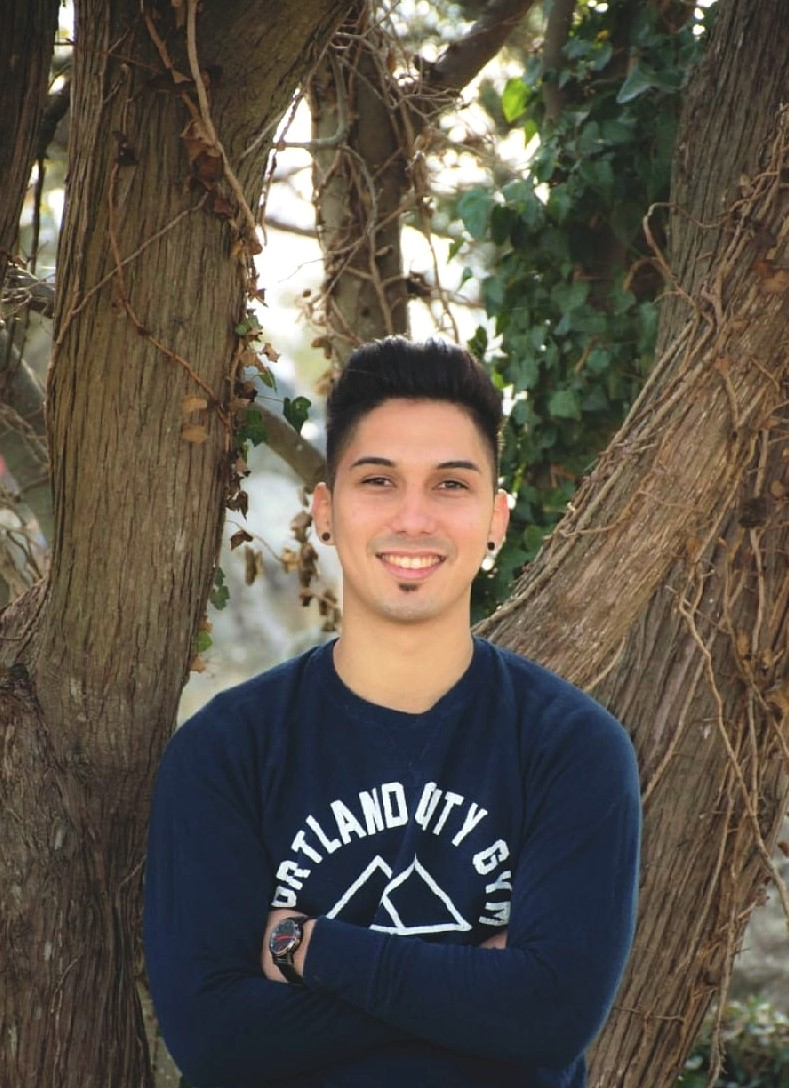
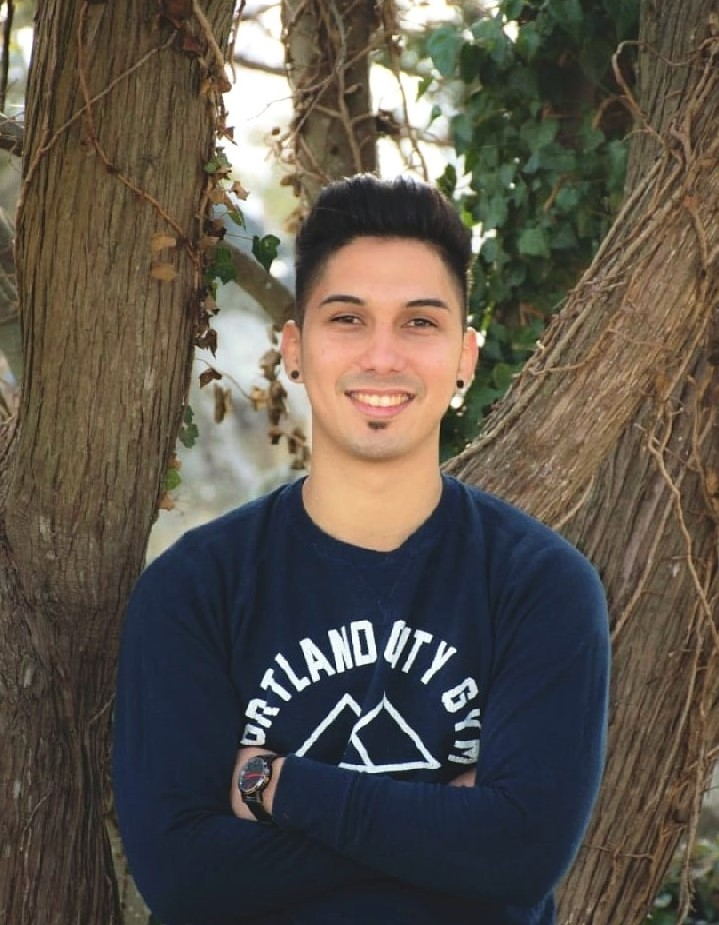
retocando detalles

diff --git a/index.html b/index.html
@@ -11,38 +11,62 @@
 </head>
 <body>
     <section class="container d-flex ">
-        <aside class="p-3">
+        <aside class="m-auto p-3">
             <div>
-                <h1 class="text-center h1">Francisco Yañez</h1>
+                <h1 class="text-center">Francisco Yañez</h1>
                 <h2 class="text-center">Web Developer</h2>
-                <img class="photo" src="images/Francisco-Yañez-Developer-fullstack.jpg" alt="">
+                <div class="text-center">
+                    <img class="photo" src="images/Francisco-Yañez-Developer-fullstack.jpg" alt="">
+                </div>
+                
             </div>
 
-            <h2>Acerca de mi</h2>
+            <h2 class="fw-bold">Acerca de mi</h2>
             <p>Lorem ipsum dolor sit amet consectetur adipisicing elit. Eius repudiandae impedit laudantium dolor magni alias corrupti provident saepe quidem omnis aspernatur officia aliquam nesciunt, porro debitis ea explicabo, aut tenetur.</p>
 
-            <h2>Contacto</h2>
-            <div class="d-flex"><i class="fa-brands fa-whatsapp aside-icon"></i>
+            <h2 class="fw-bold">Contacto</h2>
+            <div class="div-aside"><div>
+                <i class="fa-brands fa-whatsapp aside-icon"></i>
+            </div>
+            <div>
                 <p>+54 0249-4331893</p>
             </div>
-
-            <div class="d-flex"><i class="fa-solid fa-envelope-open-text aside-icon"></i>
-                <p>frankyanez9413@gmail.com</p>
+               
             </div>
 
             <div class="d-flex">
-                <i class="fa-brands fa-github aside-icon"></i>
-                <p>https://github.com/frankYanez</p>
+                <div>
+                    <i class="fa-solid fa-envelope-open-text aside-icon"></i>
+                </div>
+                <div>
+                    <p>frankyanez9413@gmail.com</p>
+                </div>
+    
             </div>
 
             <div class="d-flex">
-                <i class="fa-brands fa-linkedin aside-icon"></i>
-                <p>https://www.linkedin.com/in/frank-yanez-developer</p>
+                <div>
+                    <i class="fa-brands fa-github aside-icon"></i>
+                </div>
+                <div>
+                    <p>https://github.com/frankYanez</p>
+                </div>
+                
+            </div>
+
+            <div class="d-flex">
+                <div>
+                    <i class="fa-brands fa-linkedin aside-icon"></i>
+                </div>
+                <div>
+                    <p>https://www.linkedin.com/in/frank-yanez-developer</p>
+                </div>
+                
             </div>
         </aside>
     
-        <main>
-            <h2>Estudios</h2>
+        <main class="mx-4 my-auto">
+            <h2 class="fw-bolder">Estudios</h2>
 
             <div>
                 <h4>Escuela Normal Superior La Hacienda</h4>
@@ -59,7 +83,7 @@
                 <p>Actualmente cursando la carrera de Desarrollador Web Full Stack: <span>2022</span></p>
             </div>
 
-            <h2>Experiencia Laboral</h2>
+            <h2 class="fw-bolder">Experiencia Laboral</h2>
 
             <div>
                 <h4>Cangrejo Resto</h4>
@@ -79,8 +103,8 @@
 
             <div>
                 <div>
-                    <h2>Hard Skills</h2>
-                    <div class="d-flex ">
+                    <h2 class="fw-bolder">Hard Skills</h2>
+                    <div class="d-flex justify-content-around">
                         <img class="skill-img" src="images/html.png" alt="">
                         <img class="skill-img" src="images/css.png" alt="">
                         <img class="skill-img" src="images/js.png" alt="">
@@ -91,7 +115,7 @@
                 </div>
 
                 <div>
-                    <h2>Soft Skills</h2>
+                    <h2 class="fw-bolder">Soft Skills</h2>
                     <ul>
                         <li>Responsable <i class="fa-solid fa-check"></i></li>
                         <li>Carismatico <i class="fa-solid fa-comment-smile"></i></li>
@@ -106,12 +130,10 @@
             
         </main>
     </section>
-        
-    
     
 
 
-
+<script src="app.js"></script>
 
     <!-- bootstrap -->
 

diff --git a/css/styles.css b/css/styles.css
@@ -1,37 +1,40 @@
 @import url("https://fonts.googleapis.com/css2?family=Roboto:ital,wght@0,300;0,700;1,500&display=swap");
 aside {
-  color: white;
   max-width: 30%;
-  background-color: black;
+  background-image: linear-gradient(rgb(114, 228, 243), rgb(21, 152, 152));
+  box-shadow: 0px 0px 17px 32px rgba(0, 0, 0, 0.1);
 }
 
-.h1 {
-  font-family: "Roboto", sans-serif;
-  font-weight: bolder;
+h1 {
+  font-size: 120px;
   font-style: italic;
 }
 
-h2, h3 {
-  font-family: "Roboto", sans-serif;
-  font-style: italic;
+aside p {
+  font-size: 18px;
 }
 
 .photo {
-  max-width: 100%;
+  max-width: 300px;
   border: 2px solid white;
   border-radius: 3px;
 }
 
-.aside-icon {
-  max-width: 100px;
+.div-aside {
   display: flex;
-  flex-direction: column;
-  align-items: center;
-  justify-content: center;
 }
 
 .skill-img {
-  width: 100px;
+  max-width: 100px;
+  max-height: 100px;
+}
+
+* {
+  margin: 0;
+  padding: 0;
+  box-sizing: border-box;
+  font-family: "Roboto", sans-serif;
+  color: white;
 }
 
 /*# sourceMappingURL=styles.css.map */

diff --git a/scss/components/_aside.scss b/scss/components/_aside.scss
@@ -1,35 +1,31 @@
 @import url('https://fonts.googleapis.com/css2?family=Roboto:ital,wght@0,300;0,700;1,500&display=swap');
 
 aside {
-    color: white;
     max-width: 30%;
-    background-color: black;
+    background-image: linear-gradient(rgb(114, 228, 243), rgb(21, 152, 152));
+    box-shadow: 0px 0px 17px 32px rgba(0,0,0,0.1);
 
 }
-.h1 {
-    font-family: 'Roboto', sans-serif;
-    font-weight: bolder;
+h1 {
+    font-size: 120px;
     font-style: italic;
 }
 
-h2 , h3 {
-    font-family: 'Roboto', sans-serif;
-    font-style: italic;
-}
 
+aside p {
+    font-size: 18px;
+}
 
 .photo {
-    max-width: 100%;
+    max-width: 300px;
     border: 2px solid white;
     border-radius: 3px;
+    
 }
 
-.aside-icon {
-    max-width: 100px;
+.div-aside {
     display: flex;
-    flex-direction: column;
-    align-items: center;
-    justify-content: center;
 }
+
 
 

diff --git a/scss/components/_background.scss b/scss/components/_background.scss
@@ -1,0 +1,18 @@
+// body {
+//     background-image: linear-gradient(135deg,#000000,#3e3f42,#565657,#2D163E);
+//     background-size: 500%;
+//      animation: bganimado 10s infinite ;
+//  };
+
+//  @keyframes bganimado {
+//      0%{
+//          background-position: 0% 50%;
+//      }
+//      50%{
+//          background-position: 50% 100%;
+//      }
+//     100%{
+//          background-position: 0% 50%;
+//      }
+//  };
+

diff --git a/scss/styles.scss b/scss/styles.scss
@@ -1,2 +1,11 @@
 @import 'components/aside';
 @import 'Components/main';
+@import 'components/background';
+
+*{
+    margin: 0;
+    padding: 0;
+    box-sizing: border-box;
+    font-family: 'Roboto', sans-serif;
+    color: white;
+}

diff --git a/scss/components/_main.scss b/scss/components/_main.scss
@@ -1,3 +1,9 @@
+.main {
+    padding-left: 50px;
+};
+
+
 .skill-img {
-    width: 50px;
-}
+    max-width: 100px;
+    max-height: 100px;
+};
